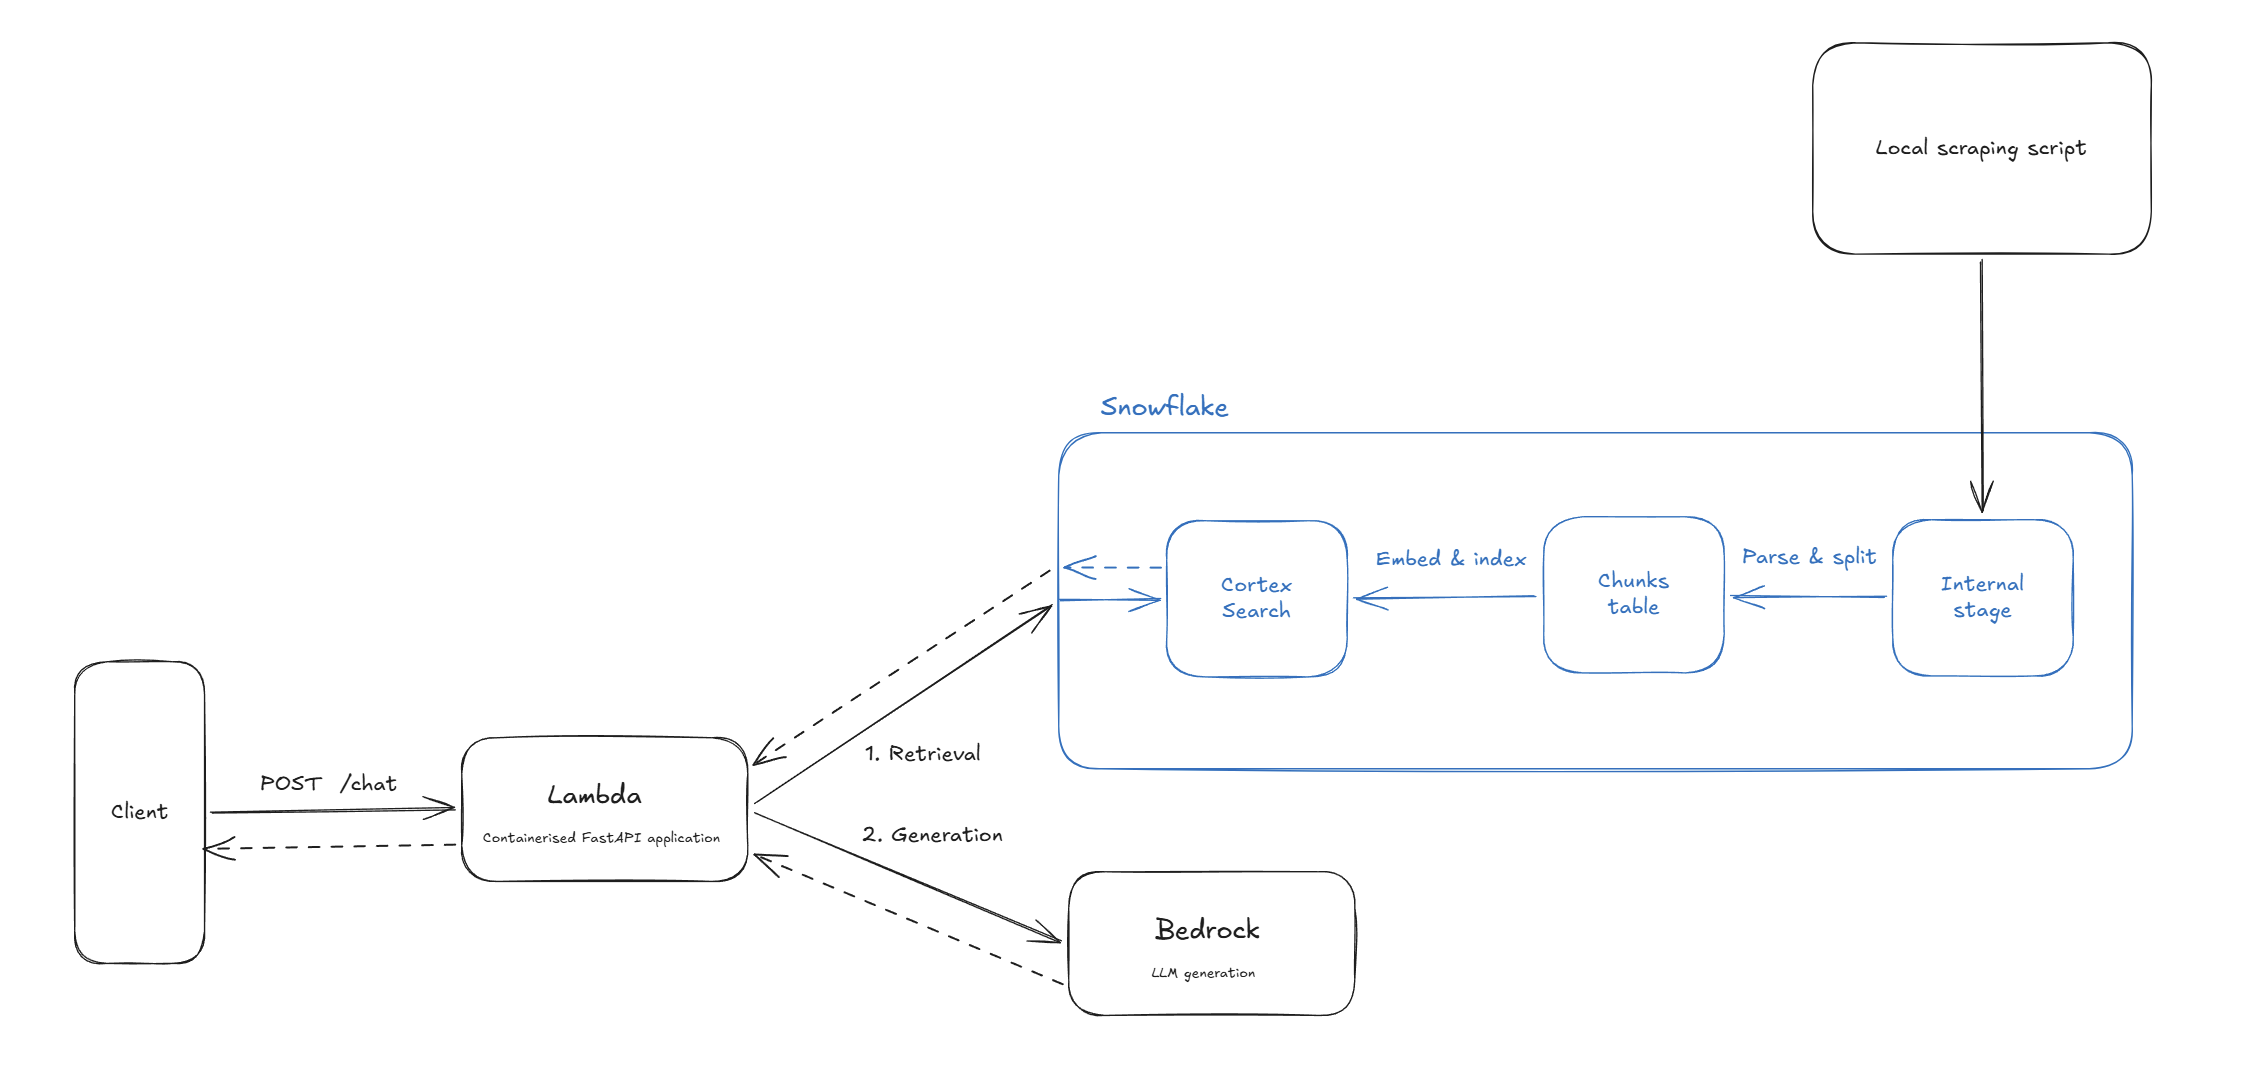
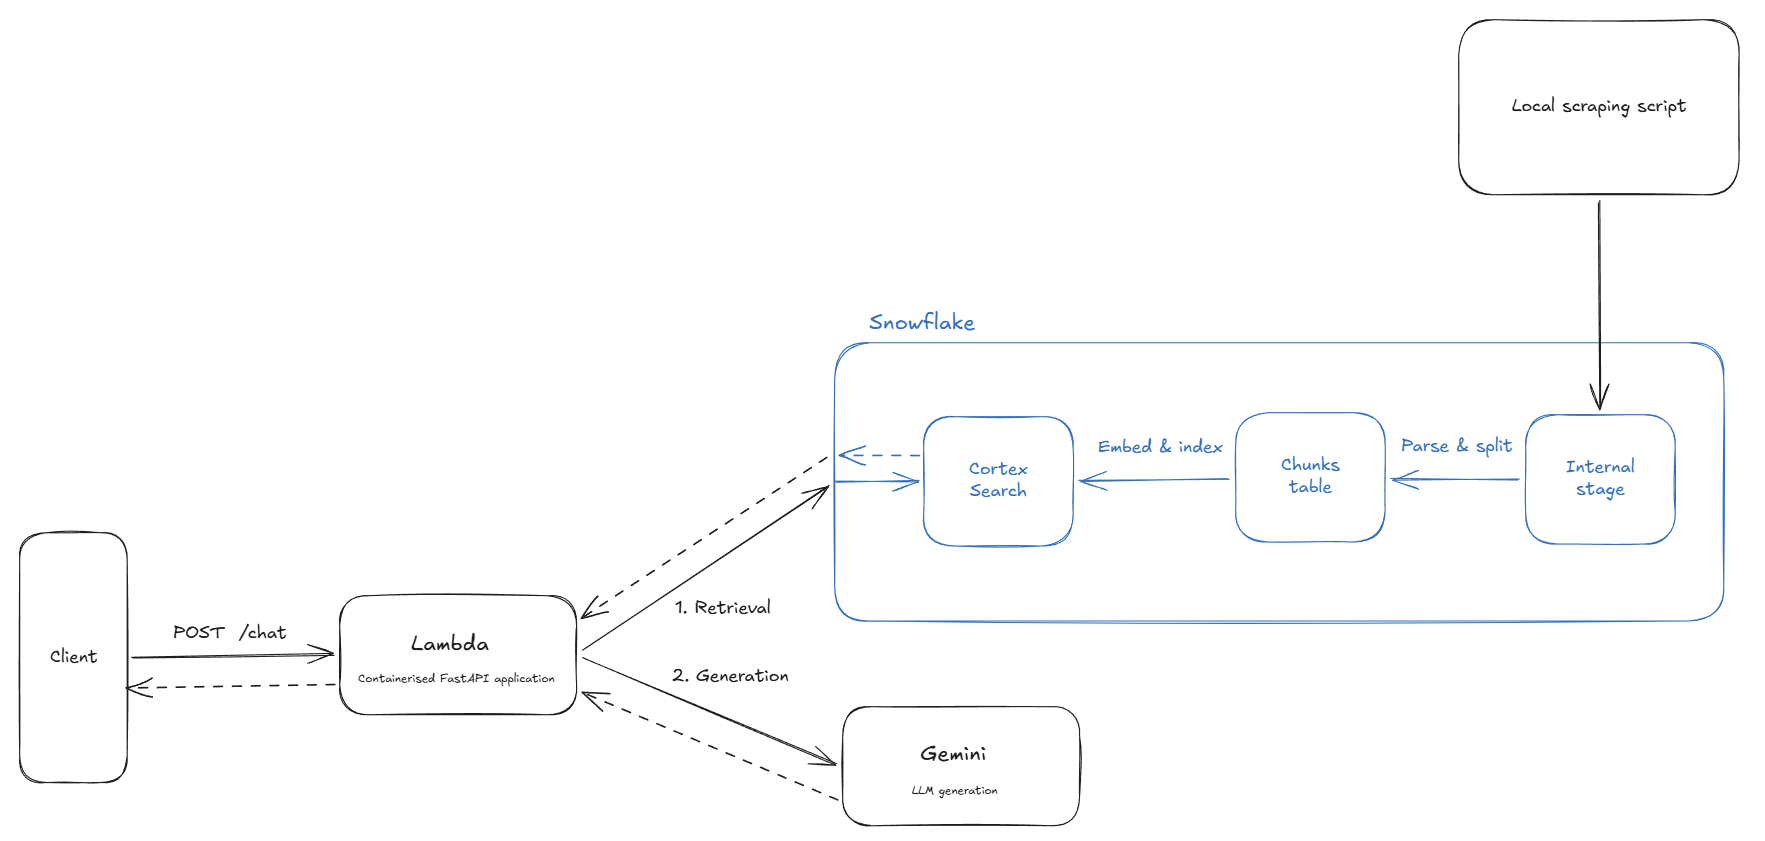
docs: update README

diff --git a/README.md b/README.md
@@ -4,52 +4,34 @@ A lightweight evaluation pipeline for a simple, mock RAG application.
 
 ## RAG pipeline
 
-A high-level picture of the system's architecture.
+A high-level architecture diagram:
 
-<img src="./assets/rag-system-architecture.png" alt="RAG system architecture diagram" width="600">
+<img src="./assets/rag-system-architecture.png" alt="RAG system architecture diagram" width="800">
+
+For a more technical overview, the app is deployed on AWS and Snowflake via CI/CD tools like Terraform and GitHub Actions. To simplify the infrastructure, Lambda gates every request - I've bundled the frontend asset and the FastAPI backend in a single Docker image which Lambda runs at invocation. When the user hits the `chat/` endpoint with a `POST`, it first embeds the prompt and searches for relavent chunks (retrieval), then the result is fed into the context of the LLM generator along with the original prompt (generation).
 
 ## Evaluation pipeline
 
-What does a good RAG pipeline look like? So far, I think there's five criteria to evaluate on: 
+A high-level architecture diagram:
 
-- Time - we want the end-to-end latency, from query to response, to be as little as possible
-- Cost - we want the cost per query to be as cheap as possible
-- Scalability - we want performance to hold up as document and query volumes grow
-- Consistency - we want similar queries to always produce similar answers
-- Reliability - can we trust the response? (this one is deliberately left vague)
+<img src="./assets/eval-pipeline-architecture.png" alt="Evaluation pipeline architecture diagram" width="800">
 
-Let's break down how each of them can be quantified.
+This project focuses on metrics that quantify RAG quality - other metrics like latency, cost, scalability, and consistency are out of scope for now. These metrics can be broken down into either retrieval metrics and generation metrics. 
 
-### Time & Cost
-
-Time and cost are easily measured once a traceability/observability system is in place.
-
-### Scalability
-
-See how time, cost, and quality varies as we increase document or query volume. There's also architectural considerations but that is out of scope for RAG evaluation.
-
-### Consistency
-
-Can be further broken down into
-
-- retrieval consistency
-- answer consistency
-- score variance
-
-### Reliability
-
-For retrieval metrics:
+Retrieval metrics are evaluated with plain functions:
 
 - context precision
 - context recall
 - mean reciprocal rank
 
-For generation metrics:
+Generation metrics are evaluated with Ragas:
 
 - faithfulness
 - answer relevance
 - answer correctness
 
-## RAG working snapshot
+Experiment runs are tracked and visualised through MLflow.
+
+## Working snapshot
 
 <img src="./assets/rag-working-example.png" alt="RAG working!" width="600">
